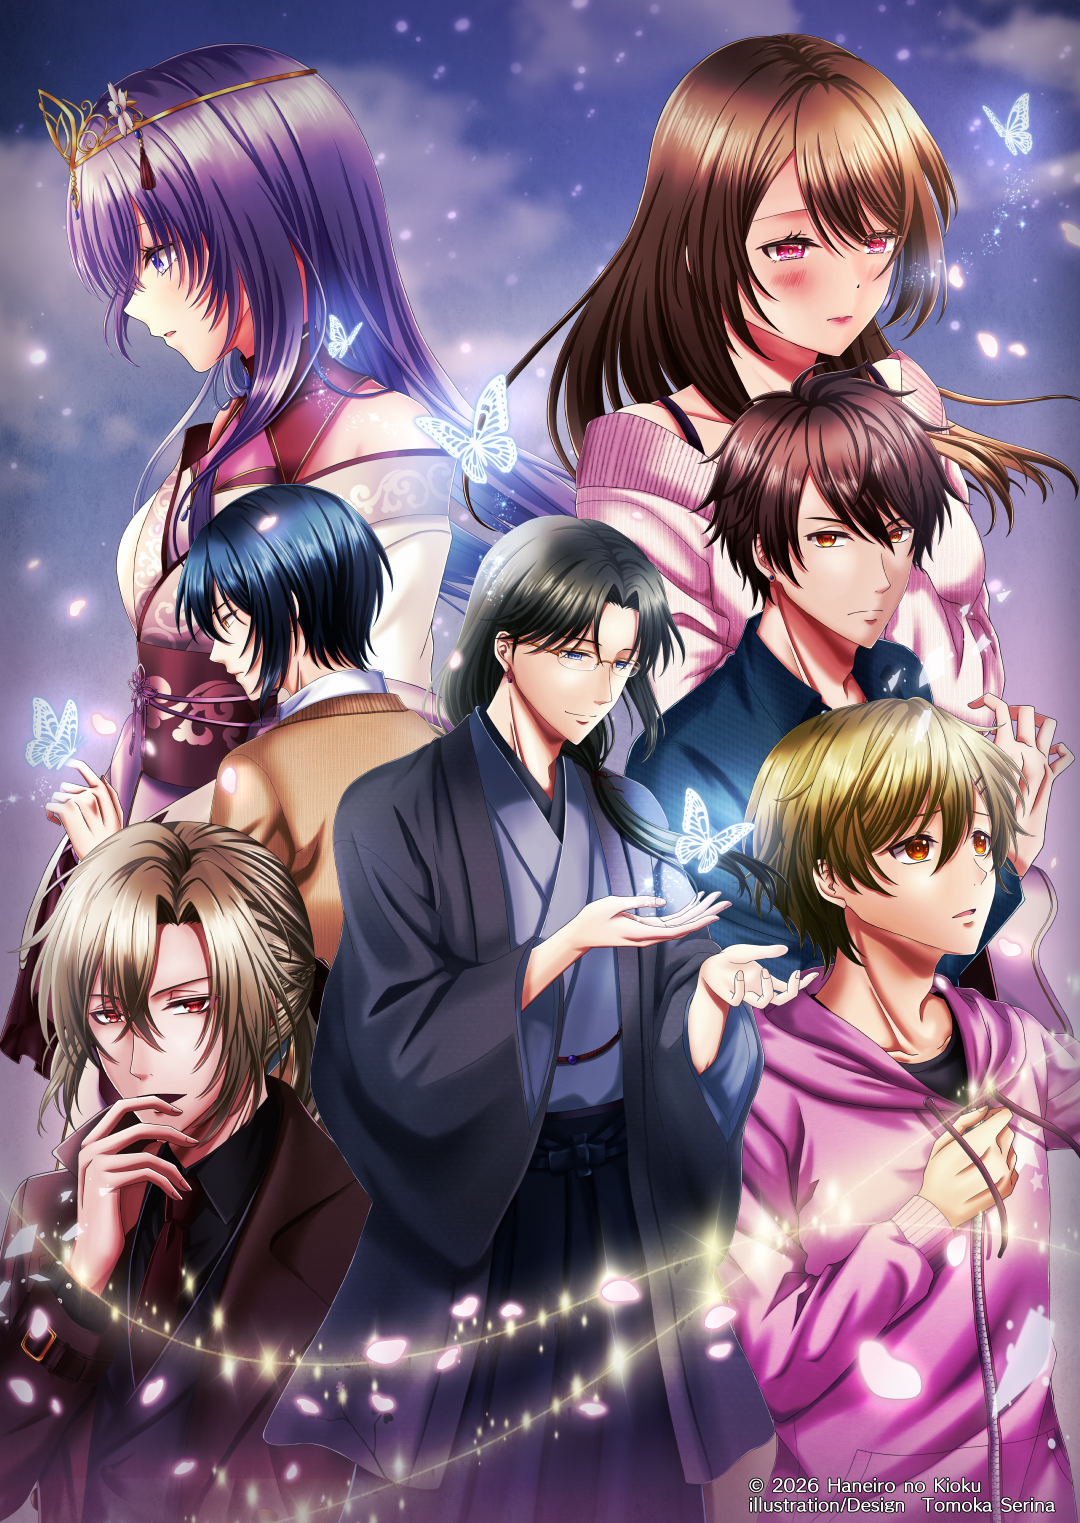
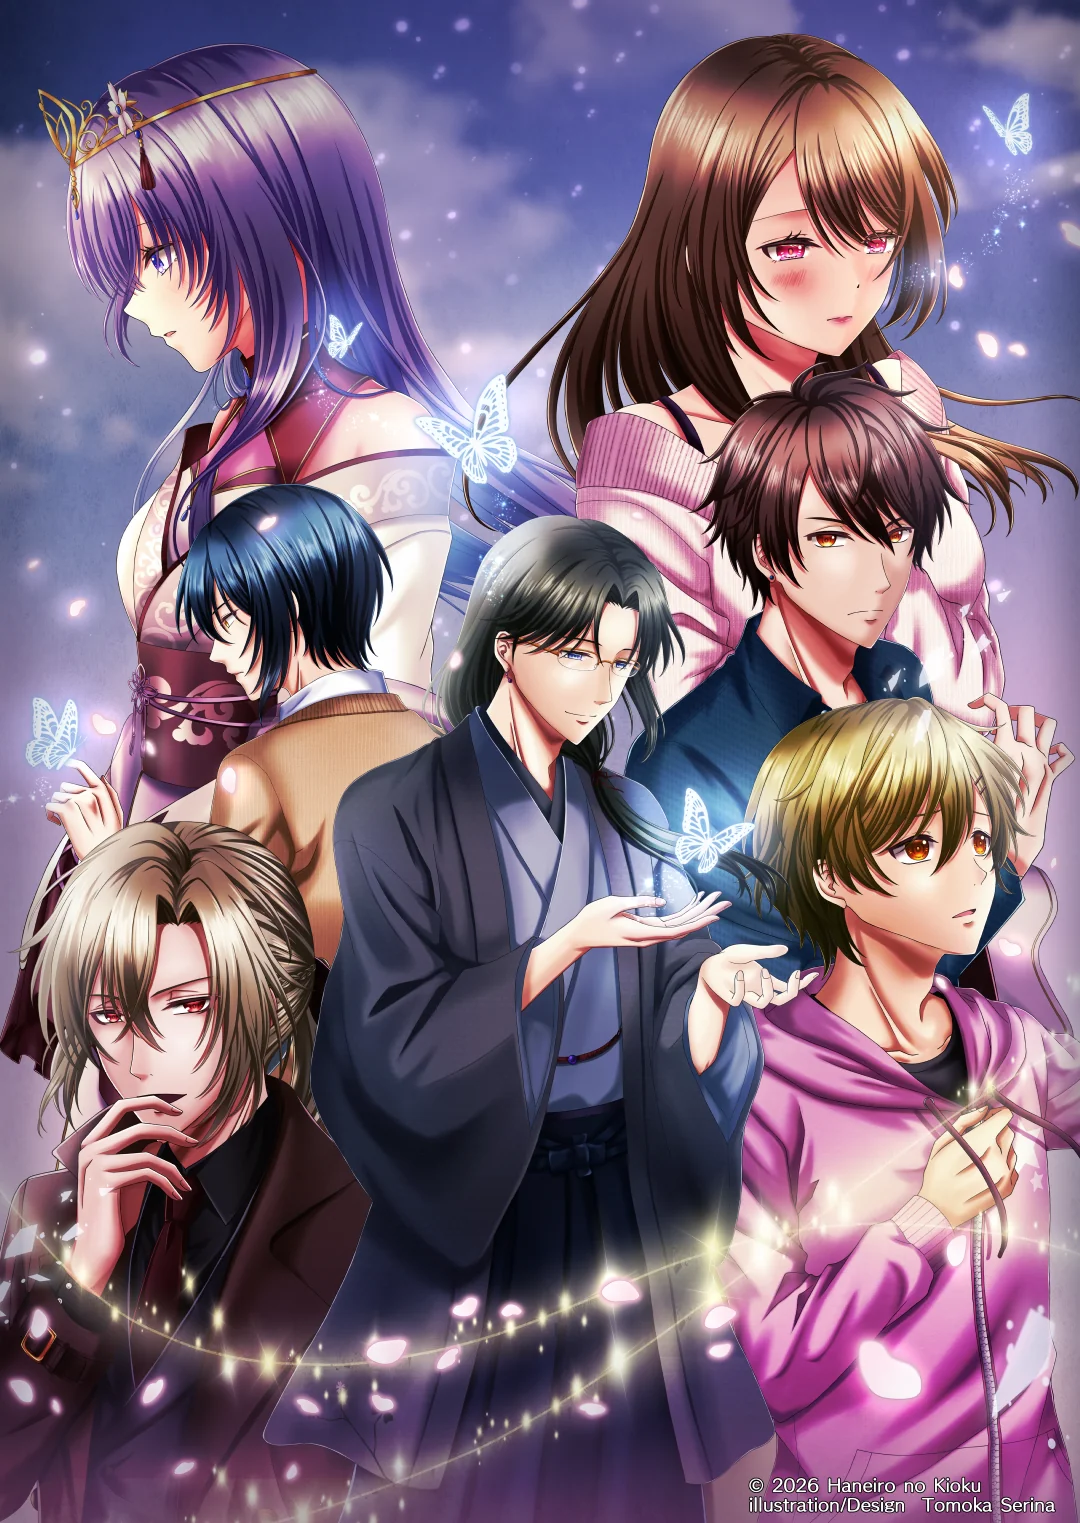
トップページ修正9

Changed region(s): [[0.0306, 0.0617, 0.1222, 0.1234]]

diff --git a/index.html b/index.html
@@ -21,6 +21,8 @@
   <link rel="preconnect" href="https://fonts.gstatic.com" crossorigin>
   <link href="https://fonts.googleapis.com/css2?family=Shippori+Mincho:wght@400;500;600&family=Zen+Kaku+Gothic+New:wght@400;500&display=swap" rel="stylesheet">
   <link rel="stylesheet" href="css/style.css?v=11">
+  <link rel="preload" as="image" href="images/kv.webp" media="(min-width: 769px)" fetchpriority="high">
+  <link rel="preload" as="image" href="images/kv-sp.webp" media="(max-width: 768px)" fetchpriority="high">
 </head>
 <body>
   <canvas id="petals" aria-hidden="true"></canvas>
@@ -53,7 +55,7 @@
     <section class="hero">
       <div class="hero-visual">
         <!-- キービジュアルができたら、下の div を
-             <img src="images/kv.webp" alt="夢見草の夜、君と キービジュアル">
+               <img src="images/kv.webp" alt="夢見草の夜、君と キービジュアル" fetchpriority="high">
              に置き換えてください -->
            <picture>
   <source media="(max-width: 768px)" srcset="images/kv-sp.webp">
